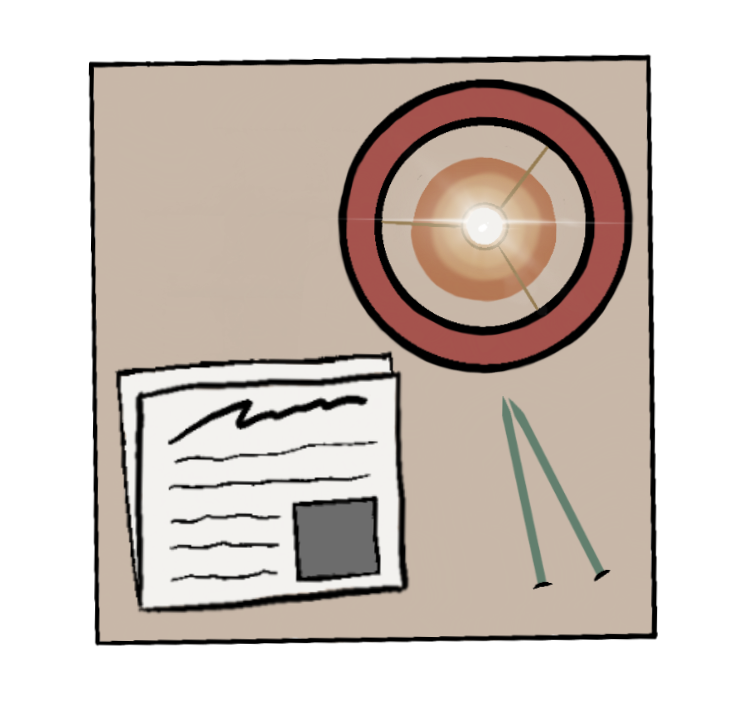
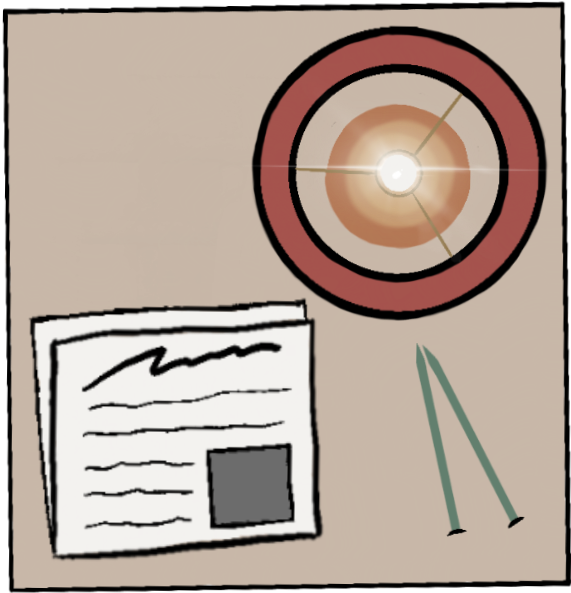
images cropped directly around objects and objects moved around for ease of collision detection

diff --git a/slugout/src/main.rs b/slugout/src/main.rs
@@ -49,7 +49,7 @@ fn setup(mut commands: Commands, asset_server: Res<AssetServer>) {
     commands
         .spawn(SpriteBundle {
             texture: asset_server.load("Player.png"),
-            transform: Transform::with_scale(Transform::from_xyz(0., 0., 1.), Vec3::splat(0.13)),
+            transform: Transform::with_scale(Transform::from_xyz(0., 0., 2.), Vec3::splat(0.13)),
             ..default()
         })
         .insert(Player)
@@ -59,7 +59,7 @@ fn setup(mut commands: Commands, asset_server: Res<AssetServer>) {
     commands
         .spawn(SpriteBundle {
             texture: asset_server.load("Face.png"),
-            transform: Transform::with_scale(Transform::from_xyz(0., 0., 2.), Vec3::splat(0.13)),
+            transform: Transform::with_scale(Transform::from_xyz(0., 0., 3.), Vec3::splat(0.13)),
             ..default()
         })
         .insert(Face)
@@ -68,7 +68,7 @@ fn setup(mut commands: Commands, asset_server: Res<AssetServer>) {
     commands
         .spawn(SpriteBundle {
             texture: asset_server.load("Bat.png"),
-            transform: Transform::with_scale(Transform::from_xyz(-5., 0., 2.), Vec3::splat(0.13)),
+            transform: Transform::with_scale(Transform::from_xyz(-5., 0., 3.), Vec3::splat(0.13)),
             ..default()
         })
         .insert(Bat)
@@ -78,10 +78,10 @@ fn setup(mut commands: Commands, asset_server: Res<AssetServer>) {
     commands
         .spawn(SpriteBundle {
             texture: asset_server.load("SideTable.png"),
-            transform: Transform::with_rotation(
-                Transform::with_scale(Transform::from_xyz(280., 20., 1.), Vec3::splat(0.18)),
-                Quat::from_rotation_z(5.5),
-            ),
+            transform: //Transform::with_rotation(
+                Transform::with_scale(Transform::from_xyz(120., 170., 1.), Vec3::splat(0.18)),
+                //Quat::from_rotation_z(5.5),
+            //),
             ..default()
         })
         .insert(Object);
@@ -90,8 +90,8 @@ fn setup(mut commands: Commands, asset_server: Res<AssetServer>) {
         .spawn(SpriteBundle {
             texture: asset_server.load("TVStand.png"),
             transform: Transform::with_rotation(
-                Transform::with_scale(Transform::from_xyz(-300., -150., 1.), Vec3::splat(0.18)),
-                Quat::from_rotation_z(4.),
+                Transform::with_scale(Transform::from_xyz(0., -250., 1.), Vec3::splat(0.18)),
+                Quat::from_rotation_z(4.72),
             ),
             ..default()
         })
@@ -100,10 +100,10 @@ fn setup(mut commands: Commands, asset_server: Res<AssetServer>) {
     commands
         .spawn(SpriteBundle {
             texture: asset_server.load("Recliner.png"),
-            transform: Transform::with_rotation(
-                Transform::with_scale(Transform::from_xyz(120., 160., 1.), Vec3::splat(0.18)),
-                Quat::from_rotation_z(0.7),
-            ),
+            transform: //Transform::with_rotation(
+                Transform::with_scale(Transform::from_xyz(-60., 210., 1.), Vec3::splat(0.18)),
+                //Quat::from_rotation_z(0.7),
+            //),
             ..default()
         })
         .insert(Object);

diff --git a/slugout/src/ball/ball.rs b/slugout/src/ball/ball.rs
@@ -53,15 +53,15 @@ fn bounce(
         let collision = bevy::sprite::collide_aabb::collide(pt.translation, Vec2::new(PLAYER_SIZE,
              PLAYER_SIZE), transform.translation, Vec2::new(BALL_SIZE, BALL_SIZE));
 
-        let recliner = bevy::sprite::collide_aabb::collide(Vec3::new(120., 160., 1.), 
+        let recliner = bevy::sprite::collide_aabb::collide(Vec3::new(-60., 210., 1.), 
         Vec2::new(158.,
             178.), transform.translation, Vec2::new(BALL_SIZE, BALL_SIZE));
 
-        let tv_stand = bevy::sprite::collide_aabb::collide(Vec3::new(-300., -150., 1.), 
+        let tv_stand = bevy::sprite::collide_aabb::collide(Vec3::new(0., -250., 1.), 
         Vec2::new(160.,
             160.), transform.translation, Vec2::new(BALL_SIZE, BALL_SIZE));
 
-        let side_table = bevy::sprite::collide_aabb::collide(Vec3::new(280., 20., 1.), 
+        let side_table = bevy::sprite::collide_aabb::collide(Vec3::new(120., 170., 1.), 
         Vec2::new(125.,
             113.), transform.translation, Vec2::new(BALL_SIZE, BALL_SIZE));
 
